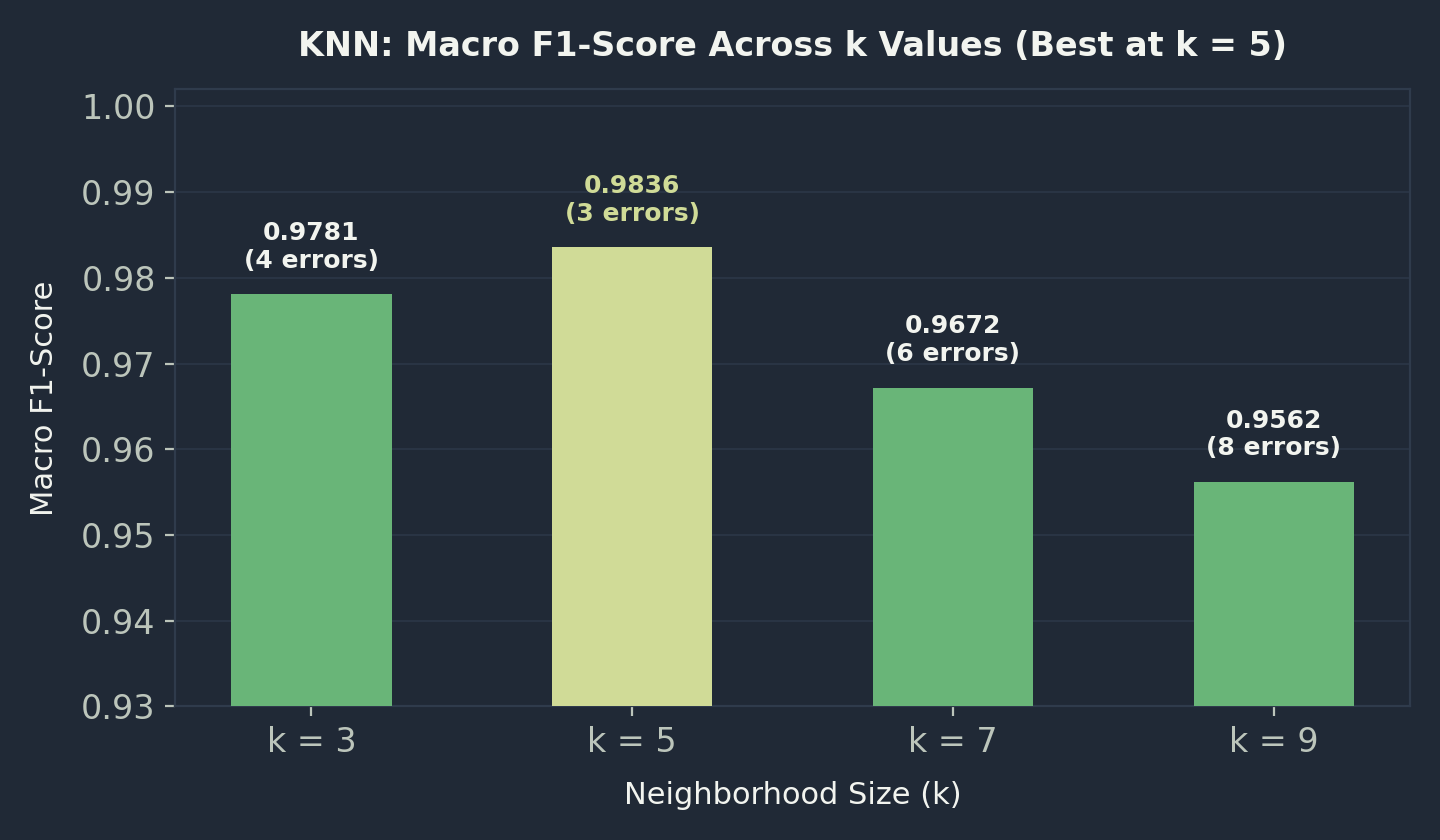
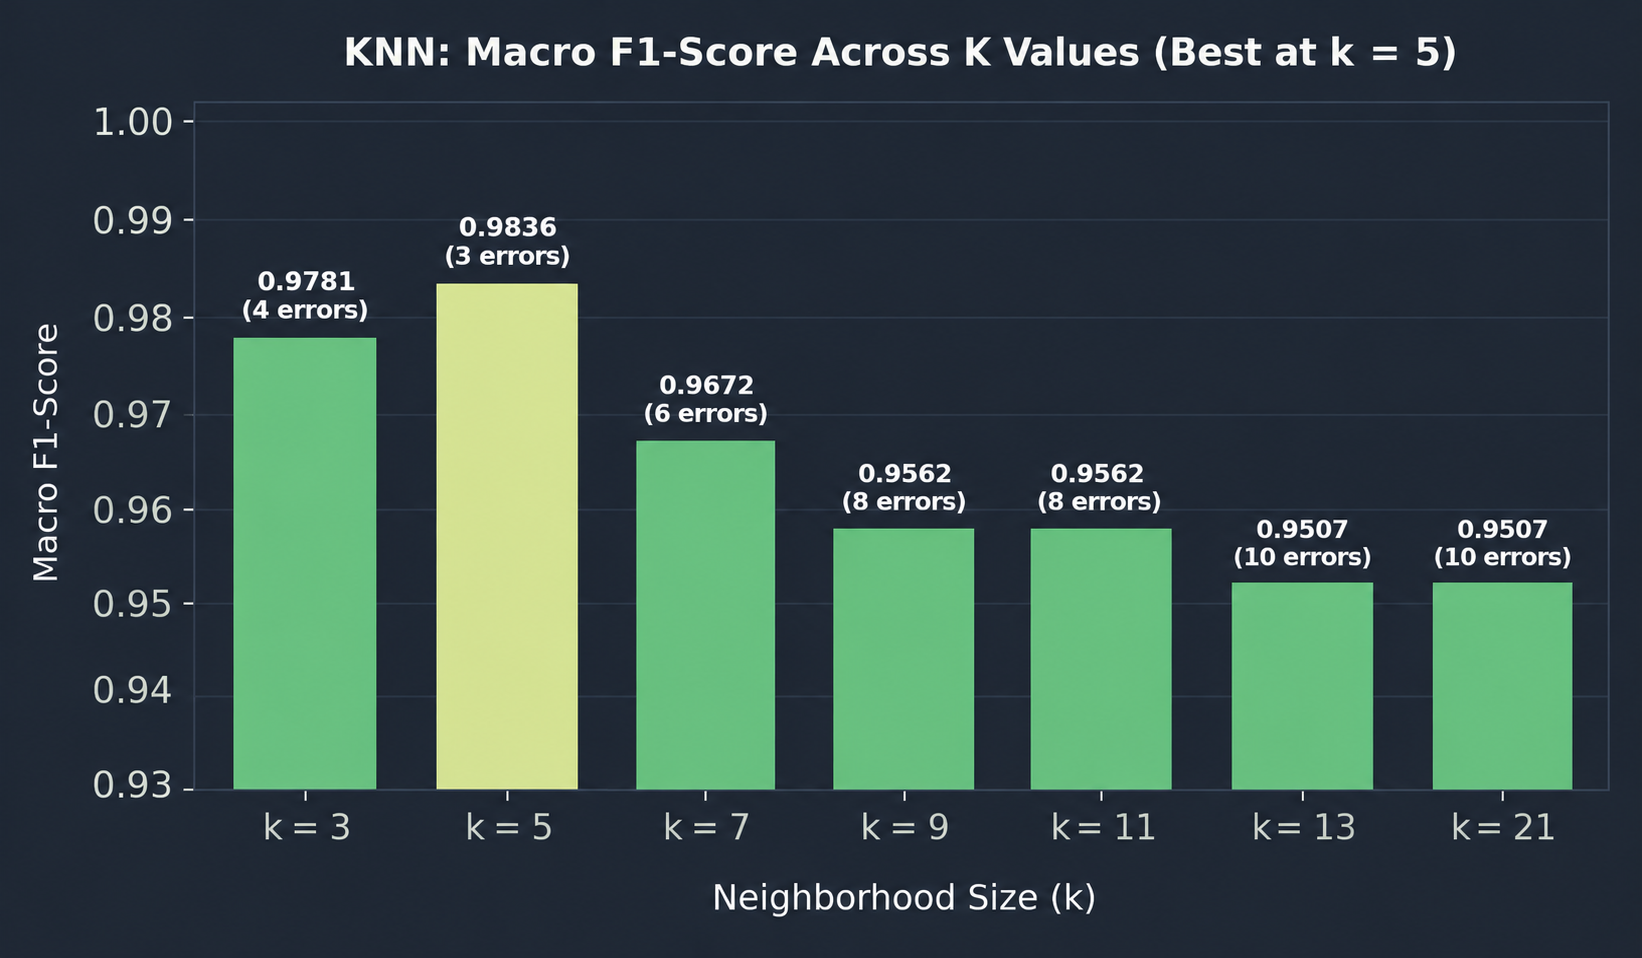
fix(ui): adjust spacing and text styles, updated the knn graph

diff --git a/docs/index.html b/docs/index.html
@@ -294,7 +294,7 @@
               <span class="algorithm-symbol">⌖</span>
             </div>
 
-            <h3>K-Nearest<br />Neighbors</h3>
+            <h3>K-Nearest Neighbors</h3>
 
             <p>
               Classifies an observation by looking at the labels of its closest
@@ -393,7 +393,7 @@
 
               <p>
                 Implemented from scratch using Euclidean distance and majority
-                voting across <i>k</i> values of 3, 5, 7, and 9 to classify High
+                voting across <i>k</i> values of 3, 5, 7, 9, 11, 13, and 21 to classify High
                 and Low mortality segments.
               </p>
             </article>
@@ -485,7 +485,7 @@
 
               <li>
                 <b>KNN</b>
-                <span> <i>k</i> = 3, 5, 7, 9; Euclidean distance. </span>
+                <span> <i>k</i> = 9, 11, 13, 21; Euclidean distance. </span>
               </li>
 
               <li>
@@ -723,7 +723,7 @@
           <figure class="graph-card">
             <img
               src="assets/figures/knn_f1.png"
-              alt="Bar chart comparing KNN Macro F1-Score across k=3, 5, 7, and 9"
+             alt="Bar chart comparing KNN Macro F1-Score across k=3, 5, 7, 9, 11, 13, and 21"
               loading="lazy"
             />
             <figcaption>

diff --git a/docs/css/style.css b/docs/css/style.css
@@ -599,10 +599,10 @@ a {
 }
 
 .pipeline-heading {
-  display: grid;
-  grid-template-columns: 1fr 1fr;
-  align-items: end;
-  gap: 30px;
+  display: flex;
+  flex-direction: column;
+  align-items: flex-start;
+  gap: 10px;
 
   margin-bottom: 25px;
 }
@@ -1141,12 +1141,14 @@ a {
   height: auto;
   border-radius: 14px;
   display: block;
+  margin-bottom: 18px;
 }
 
 .graph-card figcaption {
-  color: var(--muted);
-  font-size: 12.5px;
-  line-height: 1.6;
+  flex: 1;
+  padding-top: 15px;
+  font-size: 12px;
+  line-height: 1.7;
 }
 
 .graph-card figcaption b {
